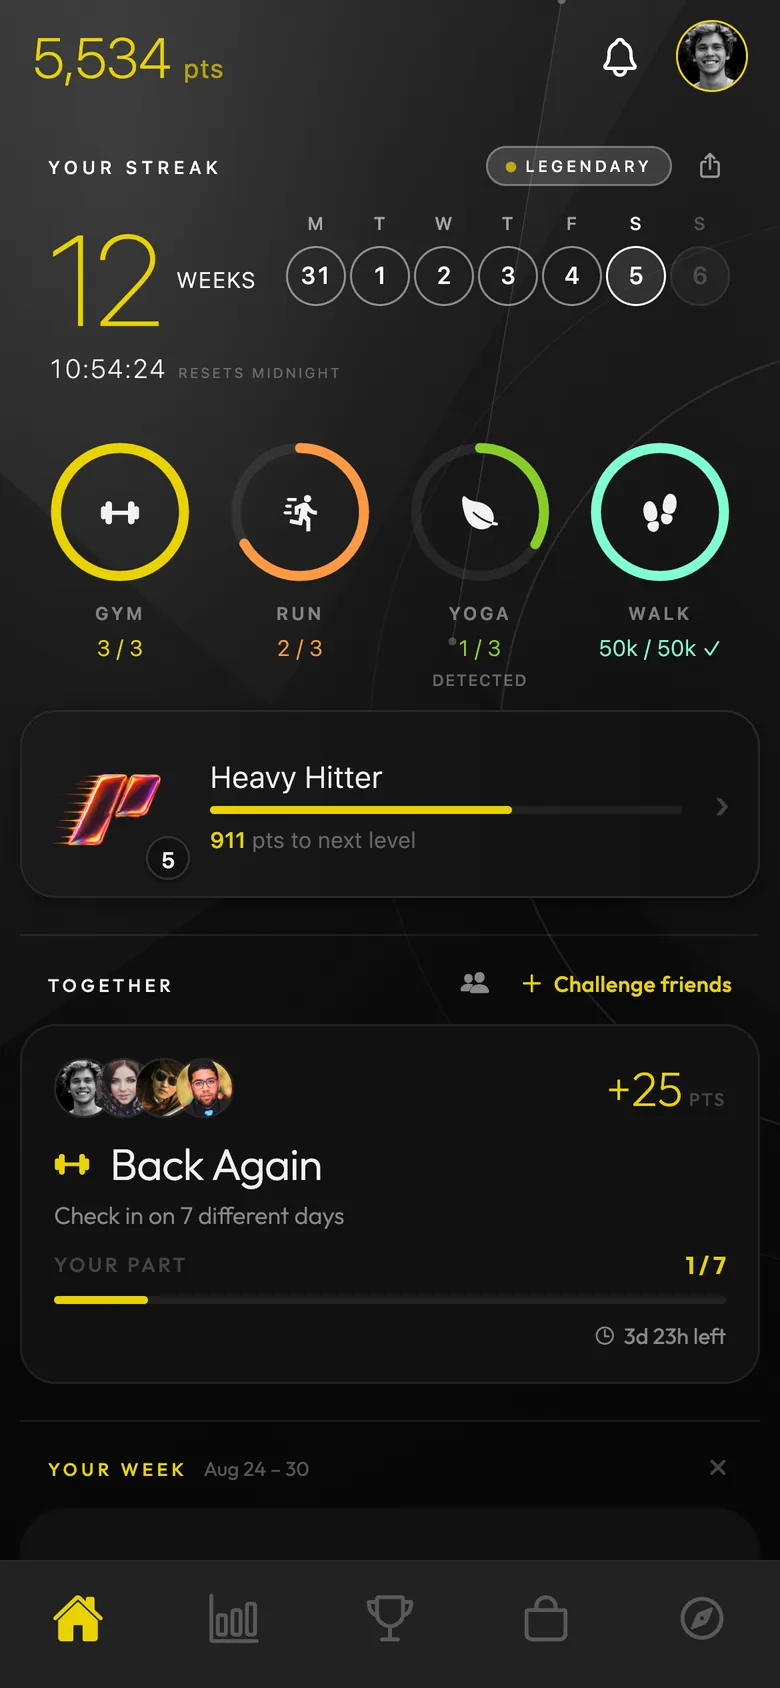
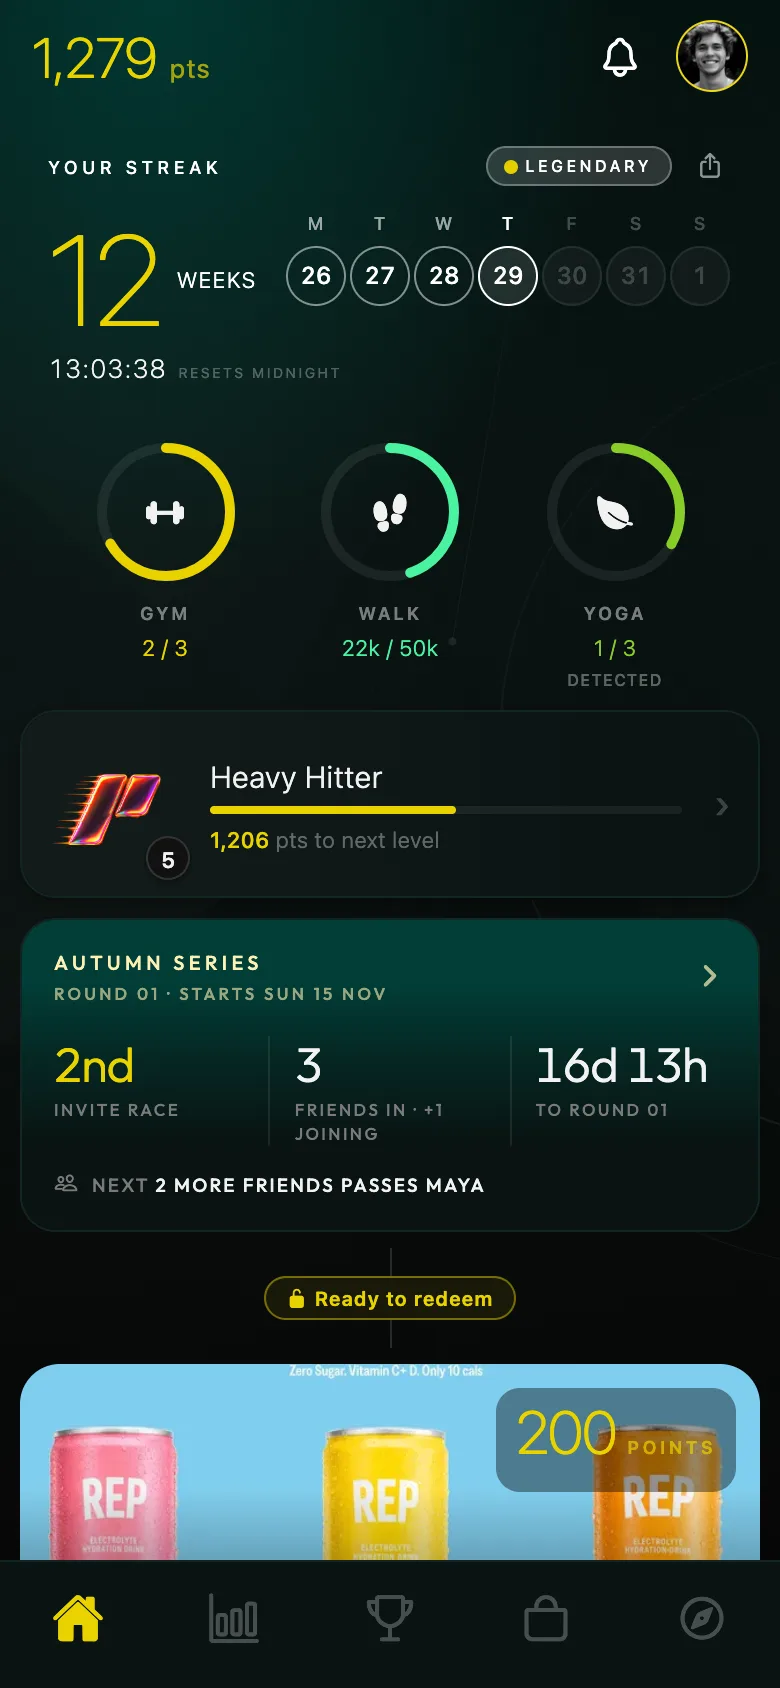
Landing: the homepage catches up with the app
The app has moved on since the homepage shipped on 13 September, so the
page now shows it as it is:

- Hero: Home as it looks today — the Autumn Series look, the streak card,
  rings, level row and the Series card — captured from the shipped app.
- The plan: wearables reach POWR through Apple Health and Health Connect
  (the Terra pause, 9 Oct); the receipt and the ladder's streak note say
  what claim-points pays (×1.2 / ×1.5 / ×2 / ×3 on the strength lane from
  3 / 5 / 7 / 10 days; ×1.5 for cardio from a week).
- Together & Become: the Together challenge (hidden on Home since 26 Oct)
  gives way to the League board — friends on the same board, a rival to
  chase, the invite race — beside the levels and the seven honours, drawn
  as the app draws them.
- Proof: the fallback numbers are today's; the date reads with them.
- FAQ: wearables through the phone's health store, what the Series is,
  and the app's languages (English, French, Spanish).

The screens come from scripts/capture-app-screens.cjs: the shipped app on
Expo web (--no-dev) for a sample member, every call answered locally with
sample data; only public artwork and the public catalogue are read.

diff --git a/landing-page/src/landing/v3/sections/Identity.jsx b/landing-page/src/landing/v3/sections/Identity.jsx
@@ -6,10 +6,48 @@ import { CARD, Head, Reveal, Section, fmt } from '../ui';
 
 /**
  * 06 — Together & Become. The social layer and the identity layer in one
- * screen: a real Together challenge in a phone, and the level ladder with
- * the legend tier kept classified.
+ * screen: the League as it is in the app — friends on the same board, a
+ * rival to chase — beside the level ladder (legend tier classified) and the
+ * seven honours a member keeps for good.
  */
 const TIERS = ['Recruit', 'Athlete', 'Elite', 'Legend'];
+
+/* The honours as the app draws them (components/honours/HonourIcon.tsx and
+   constants/honours.ts): 64-box line icons, each metal a gradient along the
+   diagonal. Lines from series.json → honours. */
+const METAL = {
+  platinum: ['#FFFFFF', '#E3ECF5', '#A6B6C7', '#F2F7FC'],
+  gold: ['#FFF1C2', '#E9C46A', '#B8862B', '#F7DF9A'],
+  silver: ['#FFFFFF', '#C7CDD4', '#7E8792', '#E6EAEE'],
+  bronze: ['#F8C9A8', '#C9825A', '#8A4B2C', '#E9A985'],
+};
+const HONOURS = [
+  { kind: 'king', name: 'King', line: 'Win a round', tier: 'gold', paths: ['M10 46 L6 20 L21 31 L32 14 L43 31 L58 20 L54 46 Z', 'M10 54 H54'], dots: [[6, 16], [32, 9.5], [58, 16]] },
+  { kind: 'power', name: 'Power', line: 'Move most days of the week', tier: 'silver', paths: ['M37 4 L13 36 H30 L26 60 L51 26 H34 Z'] },
+  { kind: 'on_fire', name: 'On Fire', line: 'Move every week', tier: 'gold', paths: ['M32 5 C37 17 49 25 49 39 C49 50 41 58 32 58 C23 58 15 50 15 39 C15 30 20 24 24 18 C26 25 28 29 31 31 C34 23 34 13 32 5 Z'] },
+  { kind: 'diamond', name: 'Diamond', line: 'Move every day of a round', tier: 'platinum', paths: ['M18 10 H46 L58 25 L32 57 L6 25 Z', 'M6 25 H58 M24 10 L20 25 L32 57 L44 25 L40 10'] },
+  { kind: 'wings', name: 'Wings', line: 'Climb the board in a round', tier: 'bronze', rotate: -8, paths: ['M6 40 C10 22 32 10 60 6 C53 15 42 20 31 23 L55 21 C48 28 38 31 28 32 L49 34 C42 40 33 42 24 42 L41 46 C33 51 21 54 12 51 C7 49 5 45 6 40 Z', 'M12 42 C16 32 24 26 31 23'] },
+  { kind: 'hive', name: 'The Hive', line: 'Bring friends in', tier: 'silver', paths: ['M46.20 23.80 L53.30 27.90 L53.30 36.10 L46.20 40.20 L39.10 36.10 L39.10 27.90 Z', 'M39.10 36.10 L46.20 40.20 L46.20 48.40 L39.10 52.50 L32.00 48.40 L32.00 40.20 Z', 'M24.90 36.10 L32.00 40.20 L32.00 48.40 L24.90 52.50 L17.80 48.40 L17.80 40.20 Z', 'M17.80 23.80 L24.90 27.90 L24.90 36.10 L17.80 40.20 L10.70 36.10 L10.70 27.90 Z', 'M24.90 11.50 L32.00 15.60 L32.00 23.80 L24.90 27.90 L17.80 23.80 L17.80 15.60 Z', 'M39.10 11.50 L46.20 15.60 L46.20 23.80 L39.10 27.90 L32.00 23.80 L32.00 15.60 Z', 'M32.00 23.80 L39.10 27.90 L39.10 36.10 L32.00 40.20 L24.90 36.10 L24.90 27.90 Z'] },
+  { kind: 'strength', name: 'Strength', line: 'Strength sessions, all time', tier: 'gold', paths: ['M8 54 C22 57 38 56 50 53 V19 C49 15 45 12.5 31 10 L27.5 17.5 L30.5 22.5', 'M30.5 22.5 L37 19.5', 'M30.5 22.5 C34.5 24 38.5 24.2 42.5 23.6', 'M42.5 27 C42.3 33 39.5 38 35 42.5', 'M6 41.5 C16 34 30 35.5 38.5 47.5', 'M11.5 48 C16.5 49.5 21 49.6 25.5 49'] },
+];
+
+function HonourIcon({ h, size = 34 }) {
+  const id = `hn-${h.kind}`;
+  const [a, b, c, d] = METAL[h.tier];
+  return (
+    <svg width={size} height={size} viewBox="0 0 64 64" fill="none" aria-hidden>
+      <defs>
+        <linearGradient id={id} x1="0" y1="0" x2="64" y2="64" gradientUnits="userSpaceOnUse">
+          <stop offset="0" stopColor={a} /><stop offset="0.38" stopColor={b} /><stop offset="0.7" stopColor={c} /><stop offset="1" stopColor={d} />
+        </linearGradient>
+      </defs>
+      <g stroke={`url(#${id})`} strokeWidth="2.6" strokeLinecap="round" strokeLinejoin="round" transform={h.rotate ? `rotate(${h.rotate} 32 32)` : undefined}>
+        {h.paths.map((p) => <path key={p.slice(0, 12)} d={p} />)}
+        {h.dots?.map(([cx, cy]) => <circle key={cx} cx={cx} cy={cy} r="2.6" />)}
+      </g>
+    </svg>
+  );
+}
 
 export default function Identity() {
   const compact = useCompact(960);
@@ -18,22 +56,22 @@ export default function Identity() {
       <Head
         n="06" tag="Together & Become"
         title="Bring your crew. Build your name."
-        lede="Shared challenges pay a group bonus when everyone finishes — the last one in pays the whole crew. And twenty levels turn what you've earned into who you are."
+        lede="Friends on the same board, a rival to chase, and an invite race before every round — bring the most friends and Squad Builder is yours. Twenty levels and seven honours turn what you've earned into who you are."
       />
       <div style={{ display: 'grid', gridTemplateColumns: compact ? '1fr' : '0.8fr 1.2fr', gap: compact ? 36 : 56, alignItems: 'center' }}>
         <Reveal amount={0.2} style={{ display: 'flex', justifyContent: 'center' }}>
           <div style={{ position: 'relative' }}>
-            <div aria-hidden style={{ position: 'absolute', inset: '-20% -30%', background: 'radial-gradient(circle, rgba(0,204,102,0.10), transparent 60%)', filter: 'blur(20px)', pointerEvents: 'none' }} />
-            <PhoneFrame src="/app/together.webp" alt="A POWR Together challenge — Back Again, four friends" width={compact ? 220 : 250} topColor="#171717" />
-            <div style={{ position: 'absolute', right: compact ? -14 : -84, top: '56%', ...CARD, borderRadius: 14, padding: '10px 14px', background: 'rgba(14,14,14,0.9)', backdropFilter: 'blur(8px)' }}>
-              <div style={{ fontSize: 10, letterSpacing: 2.2, color: pg.textMuted, fontWeight: w.semiBold }}>PAYOUT</div>
-              <div style={{ fontSize: 22, fontWeight: w.extraLight, color: pg.accent, letterSpacing: -0.6, marginTop: 2 }}>25 <span style={{ fontSize: 12, color: pg.textSec }}>base</span> + 15 <span style={{ fontSize: 12, color: pg.textSec }}>crew</span></div>
-              <div style={{ fontSize: 11.5, color: pg.textSec, marginTop: 2 }}>40 each, when all four land</div>
+            <div aria-hidden style={{ position: 'absolute', inset: '-20% -30%', background: 'radial-gradient(circle, rgba(1,62,55,0.5), transparent 60%)', filter: 'blur(20px)', pointerEvents: 'none' }} />
+            <PhoneFrame src="/app/league.webp" alt="The League in POWR — the Autumn Series board, day 4 of 16, with a rival one run ahead" width={compact ? 220 : 250} topColor="#062b28" />
+            <div style={{ position: 'absolute', right: compact ? -14 : -84, top: '63%', ...CARD, borderRadius: 14, padding: '10px 14px', background: 'rgba(14,14,14,0.9)', backdropFilter: 'blur(8px)' }}>
+              <div style={{ fontSize: 10, letterSpacing: 2.2, color: pg.textMuted, fontWeight: w.semiBold }}>YOUR RIVAL</div>
+              <div style={{ fontSize: 22, fontWeight: w.extraLight, color: pg.accent, letterSpacing: -0.6, marginTop: 2 }}>7 <span style={{ fontSize: 12, color: pg.textSec }}>pts ahead</span></div>
+              <div style={{ fontSize: 11.5, color: pg.textSec, marginTop: 2 }}>Your friend. One run passes her.</div>
             </div>
           </div>
         </Reveal>
 
-        <Reveal amount={0.2} delay={0.1}>
+        <Reveal amount={0.2} delay={0.1} style={{ display: 'flex', flexDirection: 'column', gap: 16 }}>
           <div style={{ ...CARD, padding: 'clamp(22px, 2.2vw, 30px)' }}>
             <div style={{ display: 'flex', justifyContent: 'space-between', alignItems: 'baseline' }}>
               <span style={{ fontSize: 11, letterSpacing: 2.6, color: pg.accent, fontWeight: w.semiBold }}>TWENTY LEVELS · FOUR TIERS</span>
@@ -71,6 +109,26 @@ export default function Identity() {
             </div>
             <div style={{ marginTop: 18, fontSize: 14, color: pg.textSec, fontWeight: w.light, lineHeight: 1.5 }}>
               Level 20 has a name. <span style={{ color: pg.accent }}>Earn it.</span>
+            </div>
+          </div>
+
+          {/* The honours: kept for good, shown under your name on the board */}
+          <div style={{ ...CARD, padding: 'clamp(18px, 2vw, 24px) clamp(22px, 2.2vw, 30px)' }}>
+            <div style={{ display: 'flex', justifyContent: 'space-between', alignItems: 'baseline', gap: 12 }}>
+              <span style={{ fontSize: 11, letterSpacing: 2.6, color: pg.accent, fontWeight: w.semiBold }}>SEVEN HONOURS · FOUR METALS</span>
+              <span style={{ fontSize: 11, color: pg.textMuted, whiteSpace: 'nowrap' }}>under your name, for good</span>
+            </div>
+            <div style={{ display: 'grid', gridTemplateColumns: compact ? 'repeat(4, 1fr)' : 'repeat(7, 1fr)', gap: compact ? '16px 8px' : 8, marginTop: 18 }}>
+              {HONOURS.map((h) => (
+                <div key={h.kind} style={{ textAlign: 'center' }}>
+                  <div style={{ display: 'grid', placeItems: 'center', height: 40 }}><HonourIcon h={h} /></div>
+                  <div style={{ fontSize: 12.5, color: pg.text, fontWeight: w.medium, marginTop: 8 }}>{h.name}</div>
+                  <div style={{ fontSize: 10.5, color: pg.textMuted, marginTop: 3, lineHeight: 1.35 }}>{h.line}</div>
+                </div>
+              ))}
+            </div>
+            <div style={{ marginTop: 16, fontSize: 12.5, color: pg.textSec, fontWeight: w.light, lineHeight: 1.5 }}>
+              Bronze to platinum. Win a round and the crown is gold from the first.
             </div>
           </div>
         </Reveal>

diff --git a/landing-page/src/landing/v3/sections/HowItWorks.jsx b/landing-page/src/landing/v3/sections/HowItWorks.jsx
@@ -12,13 +12,13 @@ import { CARD, Check, Head, Pts, Reveal, Section } from '../ui';
 const STEPS = [
   {
     n: '01', title: 'Show up.',
-    body: 'Walk into any partner gym and the session starts on its own — no check-in button, no QR code. Runs, rides, swims, sleep and steps arrive from the wearable you already own.',
+    body: 'Walk into any partner gym and the session starts on its own — no check-in button, no QR code. Runs, rides, swims, sleep and steps arrive through Apple Health or Health Connect, from the watch, ring or app you already own.',
     demo: <SessionCard />,
     foot: <WearableRow />,
   },
   {
     n: '02', title: 'Get verified. Get paid.',
-    body: 'Every session is checked — where you were, for how long, what your device recorded — and the points land without you touching anything. Keep a streak and your workouts multiply.',
+    body: 'Every session is checked — where you were, for how long, what your device recorded — and the points land without you touching anything. Keep a streak and a gym session pays up to three times over.',
     demo: <Receipt />,
   },
   {
@@ -95,11 +95,10 @@ function SessionCard() {
 function WearableRow() {
   return (
     <div style={{ display: 'flex', alignItems: 'center', gap: 14, flexWrap: 'wrap', paddingTop: 4 }}>
-      <span style={{ fontSize: 10, letterSpacing: 2, color: pg.textMuted, fontWeight: w.semiBold }}>ALSO FROM</span>
-      {WEARABLES.map((wb) => (
+      <span style={{ fontSize: 10, letterSpacing: 2, color: pg.textMuted, fontWeight: w.semiBold }}>APPLE HEALTH · HEALTH CONNECT</span>
+      {WEARABLES.filter((wb) => wb.id !== 'apple-health').map((wb) => (
         <img key={wb.id} src={`/wearables/${wb.id}.png`} alt={wb.name} title={wb.name} height={14} style={{ height: 14, width: 'auto', opacity: 0.6 }} />
       ))}
-      <span style={{ fontSize: 11, color: pg.textMuted }}>+15 more</span>
     </div>
   );
 }
@@ -108,7 +107,7 @@ const ROWS = [
   { icon: '▮', label: 'Gym', detail: 'ONE LDN · 52 min', pts: 20, color: '#E8D200' },
   { icon: '▮', label: 'Run', detail: '5.2 km · 26:40', pts: 8, color: '#FF9944' },
   { icon: '▮', label: 'Sleep', detail: '7h 42m', pts: 4, color: '#6366F1' },
-  { icon: '▮', label: 'Streak ×1.5', detail: '12 days · workouts', pts: 14, color: '#E8D200', bonus: true },
+  { icon: '▮', label: 'Streak ×1.5', detail: '5 days · gym +10, run +2', pts: 12, color: '#E8D200', bonus: true },
 ];
 
 function Receipt() {
@@ -127,7 +126,7 @@ function Receipt() {
       <div style={{ display: 'flex', alignItems: 'baseline', justifyContent: 'space-between', paddingTop: 12 }}>
         <span style={{ fontSize: 10, letterSpacing: 2.4, color: pg.textMuted, fontWeight: w.semiBold }}>TODAY</span>
         <span style={{ fontSize: 30, fontWeight: w.extraLight, color: pg.accent, letterSpacing: -1, lineHeight: 1 }}>
-          +46 <span style={{ fontSize: 11, letterSpacing: 1.5, fontWeight: w.semiBold, opacity: 0.8 }}>PTS</span>
+          +44 <span style={{ fontSize: 11, letterSpacing: 1.5, fontWeight: w.semiBold, opacity: 0.8 }}>PTS</span>
         </span>
       </div>
     </div>

diff --git a/landing-page/src/landing/v3/sections/Faq.jsx b/landing-page/src/landing/v3/sections/Faq.jsx
@@ -11,10 +11,12 @@ export default function Faq({ stats }) {
     { q: 'Is POWR free?', a: 'Yes. Free to download on iOS and Android, free to earn. Points come from moving — there is nothing to buy.' },
     { q: 'How does POWR know I was at the gym?', a: 'Your phone\'s location, checked against the gym\'s geofence. Arrive and a session starts on its own; stay thirty minutes and it pays 15 points, forty minutes pays 20. No check-in button, no QR code, no photo of the treadmill.' },
     { q: 'Which gyms count?', a: `${fmt(stats.partners)} partner gyms across the UK — chains like Everlast, Virgin Active and Anytime Fitness, and thousands of independents. Search yours above. If it's missing, request it from the Discover tab in the app and we'll add it.` },
-    { q: 'Which wearables and apps connect?', a: 'Apple Health and Health Connect out of the box, plus WHOOP, Garmin, Oura, Fitbit, Strava and more through a single connection. Runs, rides, swims, sport, yoga, sleep and steps all count.' },
+    { q: 'Which wearables and apps connect?', a: 'Apple Health on iPhone and Health Connect on Android — which is where your watch, ring and apps already write: Apple Watch, WHOOP, Garmin, Oura, Fitbit, Strava and the rest. Runs, rides, swims, sport, yoga, sleep and steps all count.' },
+    { q: 'What is the Series?', a: 'POWR\'s competition: a season of rounds, about two weeks each, on one live board. Join once in the app, free, and every verified session counts. First place wins, and so do the people who bring the most friends, move the most days in a row, climb the furthest or only just joined. Move on most of the round\'s days and you\'re in the draw too.' },
     { q: 'Can I game it?', a: 'Not usefully. Gym points need your phone inside the geofence for the whole session; workouts need a device record; manual logs earn at a reduced, capped rate. Every award is bounded per session and per day, so the numbers stay honest for everyone.' },
     { q: 'What can I spend points on?', a: 'Live rewards from HUEL, MAJIC, TRIBE, REP, FRANk, SWT, OMNITY and MATHAN — discounts and codes at their checkouts. The vault above is the live catalogue; a code lands in your wallet the moment you redeem.' },
     { q: 'Does walking count?', a: 'Yes — up to 5 points a day for 10,000 steps, and up to 5 for a full night\'s sleep. Gym sessions, runs, rides and swims are where the big numbers are.' },
+    { q: 'Is POWR in my language?', a: 'English, French and Spanish, following your phone\'s language. Distances in miles or kilometres — your choice.' },
   ];
   return (
     <Section id="faq">

diff --git a/landing-page/src/landing/v3/data.js b/landing-page/src/landing/v3/data.js
@@ -6,17 +6,18 @@ export { fetchLiveRewards } from '../stages/RedeemTrack';
 /*
  * Live proof numbers — public.landing_stats() (migration 20260905150000).
  * Read-only aggregates, anon-executable, showcase QA accounts excluded.
- * The fallback is the 2026-09-05 read, used only if the RPC fails.
+ * The fallback is the 2026-10-29 read, used only if the RPC fails.
  */
 export const STATS_FALLBACK = {
-  partners: 7871,
+  partners: 8008,
   brands: 8,
-  sessions_7d: 785,
-  points_7d: 13393,
-  sessions_all: 4113,
-  points_all: 52503,
-  redemptions: 41,
+  sessions_7d: 520,
+  points_7d: 5952,
+  sessions_all: 10001,
+  points_all: 194693,
+  redemptions: 229,
 };
+export const STATS_AS_OF = '29 October 2026';
 
 export async function fetchStats() {
   try {
@@ -127,7 +128,9 @@ export async function fetchSeries() {
   }
 }
 
-/* Wearable marks — white-alpha PNGs in /public/wearables */
+/* Wearable marks — white-alpha PNGs in /public/wearables. Since the Terra
+   pause (2026-10-09) every wearable reaches POWR through the phone's health
+   store: Apple Health on iPhone, Health Connect on Android. */
 export const WEARABLES = [
   { id: 'apple-health', name: 'Apple Health' },
   { id: 'whoop', name: 'WHOOP' },

diff --git a/landing-page/src/landing/v3/sections/Worth.jsx b/landing-page/src/landing/v3/sections/Worth.jsx
@@ -58,7 +58,7 @@ export default function Worth() {
             <div style={{ marginTop: 14, padding: '12px 14px', borderRadius: 12, background: 'rgba(232,210,0,0.06)', border: '1px solid rgba(232,210,0,0.18)' }}>
               <div style={{ fontSize: 13, color: pg.text, fontWeight: w.medium }}>Streaks multiply.</div>
               <div style={{ fontSize: 12.5, color: pg.textSec, marginTop: 3, lineHeight: 1.5 }}>
-                Twelve days in a row and every workout pays ×1.5. Walking and sleep top out at 5 a day; gym at 30. Runs, rides and swims are uncapped.
+                Three active days in a row and a gym session pays ×1.2; five days ×1.5; seven ×2; ten ×3. Runs, rides and swims pay ×1.5 from a week. Walking and sleep top out at 5 a day; gym at 30. Runs, rides and swims are uncapped.
               </div>
             </div>
           </div>

diff --git a/landing-page/src/landing/v3/sections/Proof.jsx b/landing-page/src/landing/v3/sections/Proof.jsx
@@ -2,6 +2,7 @@ import { useEffect, useRef, useState } from 'react';
 import { useInView } from 'framer-motion';
 import { pg, w } from '../../theme';
 import { useCompact } from '../../stages/shared';
+import { STATS_AS_OF } from '../data';
 import { Hairline, Reveal, Section, fmt } from '../ui';
 
 /**
@@ -34,7 +35,7 @@ export default function Proof({ stats }) {
       <Hairline />
       <div style={{ display: 'flex', justifyContent: 'center', alignItems: 'center', gap: 8, marginTop: 18, fontSize: 11.5, color: pg.textMuted }}>
         {stats.live && <span style={{ width: 6, height: 6, borderRadius: '50%', background: '#00CC66', boxShadow: '0 0 8px #00CC66' }} />}
-        {stats.live ? 'Live from the POWR database' : 'As of 5 September 2026'}
+        {stats.live ? 'Live from the POWR database' : `As of ${STATS_AS_OF}`}
       </div>
     </Section>
   );

diff --git a/landing-page/src/landing/Hero.jsx b/landing-page/src/landing/Hero.jsx
@@ -115,7 +115,7 @@ export default function Hero({ kicker = 'Live now', footnote = null }) {
             transition={{ duration: 6.5, ease: 'easeInOut', repeat: Infinity }}
             style={{ transformStyle: 'preserve-3d', rotateY: compact ? 0 : -16, rotateX: compact ? 0 : 4, rotate: compact ? 0 : 3 }}
           >
-            <PhoneFrame src="/app/home.webp" alt="POWR home screen" width={compact ? 250 : 322} topColor="#2d2d2d" priority />
+            <PhoneFrame src="/app/home.webp" alt="POWR home screen" width={compact ? 250 : 322} topColor="#062b28" priority />
           </motion.div>
         </motion.div>
         {/* Gold underlight so the phone reads as lit by the product, not the video */}
